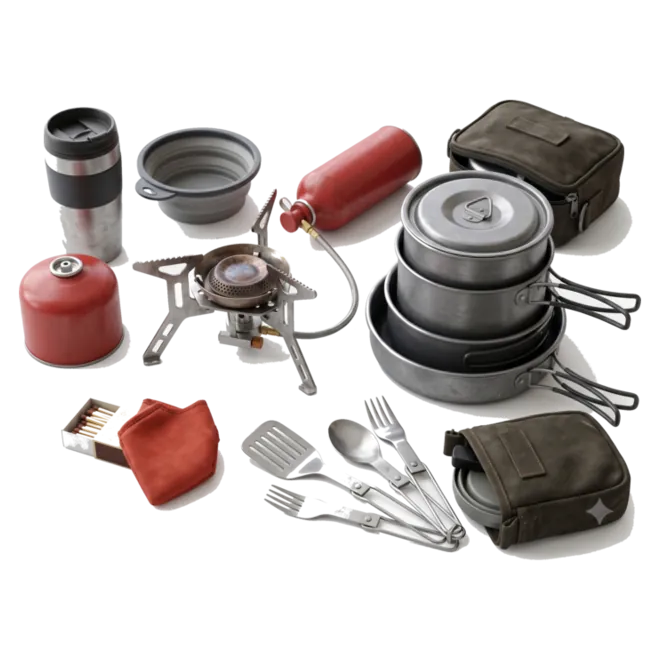
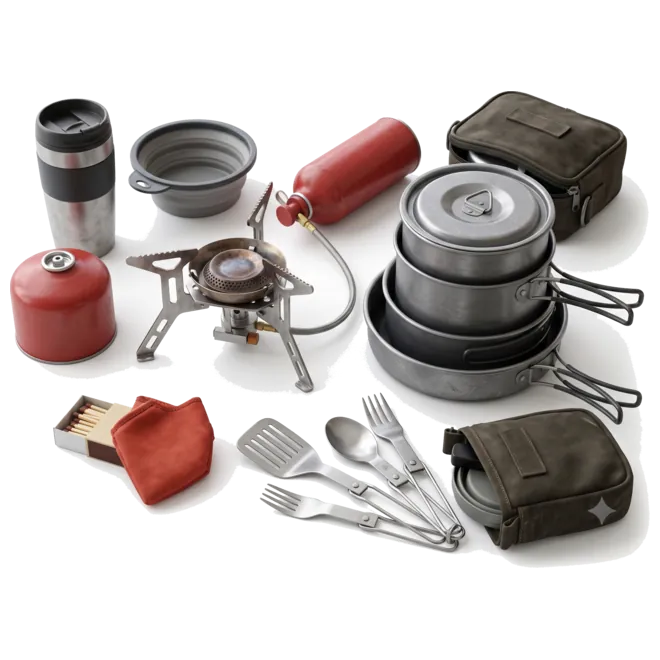
Add files via upload

Changed region(s): [[0.0, 0.1212, 1.0, 0.8788]]

diff --git a/index.html b/index.html
@@ -465,6 +465,10 @@ footer{border-top:1px solid #E2E9DE}
   width:100%; height:100%; object-fit:contain; display:block;
   filter:drop-shadow(0 7px 12px rgba(18,58,44,.22));
 }
+/* foto yang latarnya tak bisa dipisah: tampil penuh sebagai kartu foto */
+.hero-art .chip.solid{padding:0; background:none}
+.hero-art .chip.solid img{object-fit:cover; border-radius:26px; filter:none}
+.thumb img.cut[src*="carrier"]{object-fit:cover; padding:0}
 @keyframes reelSlide{from{transform:translate3d(0,0,0)} to{transform:translate3d(-50%,0,0)}}
 @keyframes chipBob{
   0%,100%{transform:translateY(0) rotate(-1.4deg)}
@@ -535,6 +539,40 @@ footer{border-top:1px solid #E2E9DE}
   main{padding-bottom:96px}
   footer{padding-bottom:104px}
   .toasts{bottom:96px}
+}
+
+/* ---------- TAMPILAN BARANG DI PONSEL ---------- */
+@media (max-width:640px){
+  .grid{grid-template-columns:1fr; gap:12px}
+  .grid .card.hoverable{
+    display:grid; grid-template-columns:126px 1fr; align-items:stretch;
+    border-radius:20px; overflow:hidden;
+  }
+  .grid .card.hoverable .thumb{aspect-ratio:1/1; height:100%; border-radius:0}
+  .grid .card.hoverable .thumb .tags{left:6px; top:6px; gap:4px}
+  .grid .card.hoverable .thumb .tags .tag{font-size:10.5px; padding:2px 7px}
+  .grid .card.hoverable .thumb .tags .tag.o{display:none}
+  .grid .card.hoverable .thumb .fav{width:30px; height:30px; font-size:15px; right:6px; top:6px}
+  .grid .card.hoverable .thumb .catref{display:none}
+  .grid .card.hoverable .thumb img.cut{padding:7%}
+  .grid .card.hoverable .body{padding:12px 14px 12px 13px; gap:5px}
+  .grid .card.hoverable h4{
+    font-size:15.5px; line-height:1.28; display:-webkit-box;
+    -webkit-line-clamp:2; -webkit-box-orient:vertical; overflow:hidden;
+  }
+  .grid .card.hoverable .meta{font-size:12px}
+  .grid .card.hoverable .value{font-size:15.5px}
+  .grid .card.hoverable .value span{display:none}
+  .grid .card.hoverable .wants,.grid .card.hoverable .match{
+    font-size:11.5px; white-space:nowrap; overflow:hidden; text-overflow:ellipsis;
+  }
+  .grid .card.hoverable .foot{gap:6px; margin-top:8px}
+  .grid .card.hoverable .foot .btn{min-height:38px; padding:0 8px; font-size:13px}
+  .grid .card.hoverable .foot .btn:not(.primary){flex:0 0 78px}
+  .grid .card.hoverable:active{transform:scale(.985); transition:transform .12s}
+  /* label tab bawah cukup satu kata, tidak lagi terpotong */
+  .bottomnav button{font-size:11.5px; padding:7px 1px}
+  .bottomnav button .tl{text-overflow:clip; letter-spacing:-.01em}
 }
 
 /* logo menyatu dengan latar, tanpa kotak putih */
@@ -652,7 +690,7 @@ const CAT_PHOTO = {
 const REEL_A = ["carrier","tenda","sepatu","sleepingbag","daypack"];
 const REEL_B = ["masak","headlamp","trekkingpole","jashujan","matras"];
 function heroReel(){
-  const chip = n => '<span class="chip"><img src="assets/kategori/'+n+'.webp" loading="lazy" alt=""></span>';
+  const chip = n => '<span class="chip'+(n==="carrier"?" solid":"")+'"><img src="assets/kategori/'+n+'.webp" loading="lazy" alt=""></span>';
   const row = list => { const r = list.map(chip).join(""); return r + r; };
   return '<div class="reel"><div class="reel-track">'+row(REEL_A)+'</div></div>'
        + '<div class="reel rev"><div class="reel-track">'+row(REEL_B)+'</div></div>';
@@ -1251,11 +1289,11 @@ function regBlock(me){
 /* ---------- router ---------- */
 const state = {tab:"beranda", q:"", cat:"Semua", cond:"Semua", city:"Semua", vmax:0, sort:"baru", box:"masuk", openOffer:null};
 const TABS = [
-  {id:"beranda", label:"Beranda"},
-  {id:"cocok", label:"Cocok untukmu"},
-  {id:"penawaran", label:"Penawaran"},
-  {id:"tambah", label:"Tambah barang"},
-  {id:"profil", label:"Profil"}
+  {id:"beranda", label:"Beranda", short:"Beranda"},
+  {id:"cocok", label:"Cocok untukmu", short:"Cocok"},
+  {id:"penawaran", label:"Penawaran", short:"Tawaran"},
+  {id:"tambah", label:"Tambah barang", short:"Tambah"},
+  {id:"profil", label:"Profil", short:"Profil"}
 ];
 function go(tab){ state.tab = tab; render(); window.scrollTo({top:0,behavior:"smooth"}); }
 
@@ -1266,15 +1304,15 @@ const TAB_ICONS = {
   tambah:'<svg viewBox="0 0 24 24" fill="none" stroke="currentColor" stroke-width="1.8" stroke-linecap="round" stroke-linejoin="round"><circle cx="12" cy="12" r="8.2"/><path d="M12 8.2v7.6M8.2 12h7.6"/></svg>',
   profil:'<svg viewBox="0 0 24 24" fill="none" stroke="currentColor" stroke-width="1.8" stroke-linecap="round" stroke-linejoin="round"><circle cx="12" cy="8.2" r="3.5"/><path d="M4.8 20c0-3.5 3.2-5.6 7.2-5.6s7.2 2.1 7.2 5.6"/></svg>'
 };
-function tabsHtml(){
+function tabsHtml(useShort){
   const n = incoming().filter(o=>openStatuses.includes(o.status)).length;
   return TABS.map(t=>
-    '<button role="tab" aria-selected="'+(state.tab===t.id)+'" onclick="go(\''+t.id+'\')">'
-    + (TAB_ICONS[t.id]||'') + '<span class="tl">'+t.label+'</span>'
+    '<button role="tab" aria-selected="'+(state.tab===t.id)+'" title="'+t.label+'" aria-label="'+t.label+'" onclick="go(\''+t.id+'\')">'
+    + (TAB_ICONS[t.id]||'') + '<span class="tl">'+(useShort ? t.short : t.label)+'</span>'
     + (t.id==="penawaran" && n ? '<span class="badge">'+n+'</span>' : '') + '</button>').join("");
 }
 function renderTabs(){
-  const html = tabsHtml();
+  const html = tabsHtml(false);
   const top = document.getElementById("tabs");
   const bot = document.getElementById("bottomNav");
   if(top){
@@ -1282,7 +1320,7 @@ function renderTabs(){
     /* tandai kalau deretan tab masih bisa digeser ke samping */
     setTimeout(()=>{ top.classList.toggle("scrollable", top.scrollWidth > top.clientWidth + 4); }, 0);
   }
-  if(bot) bot.innerHTML = html;
+  if(bot) bot.innerHTML = tabsHtml(true);
 }
 
 /* ---------- views ---------- */
